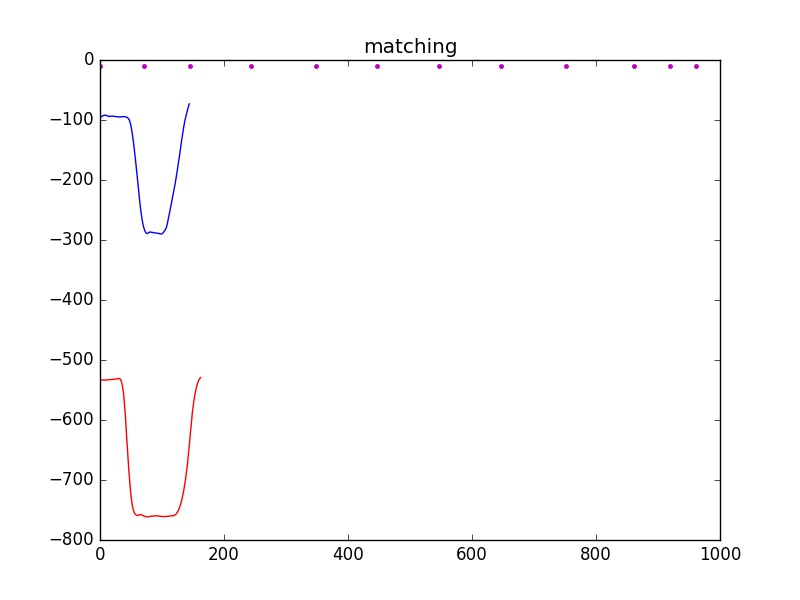
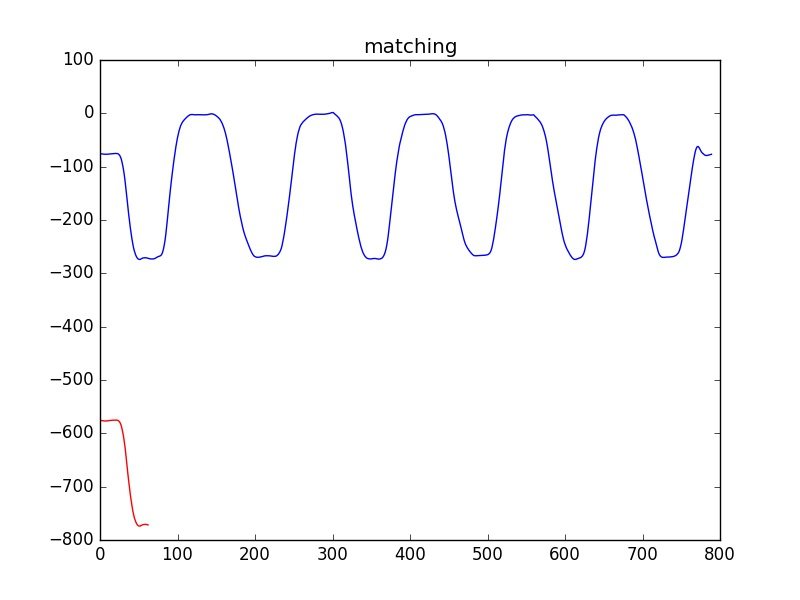
add

diff --git a/DTW/matchingseg.py b/DTW/matchingseg.py
@@ -17,23 +17,25 @@ src_path  = 'I:/AllData_0327/unified data array/Unified_MData/ex4/'
 #src_path  = 'D:/Project/K_project/data/unified data array/Unified_MData/'
 gt_src   = 'GT_V_data.h5'
 
-test_src = src_path + 'Andy_2016-12-15 04.15.27 PM_ex4_FPS30_motion_unified.pkl'
+test_src = src_path + 'Andy_2017-03-06 02.19.08 PM_ex4_FPS30_motion_unified.pkl'
 
-gt_data      = h5py.File('GT_V_data.h5','r')
-gt1          = gt_data['GT_1'][:]
-gt2          = gt_data['GT_2'][:]
-gt3          = gt_data['GT_3'][:]
-gt4          = gt_data['GT_4'][:]
+data       = h5py.File('GT_V_data.h5','r')
+gt_data    = {}
+gt_data[1] = data['GT_1'][:]
+gt_data[2] = data['GT_2'][:]
+gt_data[3] = data['GT_3'][:]
+gt_data[4] = data['GT_4'][:]
+
+
 
 test_data    = cPickle.load(file(test_src,'rb'))[12:,:].T
 
-# === initialization ===
+
 distlist            = []
 distplist           = []
 
 seglist             =[]
 gtseglist           =[]
-
 cnt         = 0
 dcnt        = 0      # decreasing cnt
 test_idx    = 0
@@ -43,31 +45,141 @@ deflag      = False  # decreasing flag
 err         = []
 dist_prev   = 0
 distp_prev  = 0 
+argmin      = []
 distp_cmp  = np.inf
 
+order = [1,3,4,3,4,3,4,3,4,2]
 
-
-
-    test_data_p1  = test_data[:,:] + np.atleast_2d((gt1[]-test_data[test_idx,:]))
+for gt_idx in order:
+    test_data_p  = test_data[:,:] + np.atleast_2d((gt_data[gt_idx][0,:]-test_data[test_idx,:]))
     
     distlist  = []
     distplist = []
 
 
+#    
+    dcnt        = 0 
+    deflag      = False
+    
+    for jidx,j in  enumerate(range(test_idx+1,test_data.shape[0])): 
+        dist  , path   = fastdtw(gt_data[gt_idx], test_data[test_idx:j,:]  , dist=euclidean)
+        dist_p, path_p = fastdtw(gt_data[gt_idx], test_data_p[test_idx:j,:], dist=euclidean)
 
 
+        print j
+        if jidx == 0:
+            testlist = test_data[j,:]
+        else:
+            testlist = np.vstack([testlist,test_data[j,:]])
+       
+        distlist.append(dist)
+        distplist.append(dist_p)
+        
+        if len(distlist)>1:
+            gdist  = np.gradient(distlist)
+            gdistp = np.gradient(distplist)
+        
+        if (j > test_idx+2) & (not deflag):
+            print distlist[-1]-distlist[-2]
+            if (distlist[-1]-distlist[-2]) <= 0:
+                dcnt +=1
+                if dcnt == 1:
+                    dpfirst = dist_p
+            else:
+                dcnt = 0
+                
+#            print ('dcnt')
+#            print dcnt
+            
+            if dcnt == 10:
+#                print ('dpfirst - dist_p')
+#                print dpfirst - dist_p
+                if (dpfirst - dist_p)>2000:
+                    print('deflag on')
+                    deflag = True
+                else:
+                    dcnt = 1       
+        
+        if deflag : 
+            if chk_flag:  # in check global min status
+                cnt +=1
+                err.append(np.abs(dist_p-dist)/dist) 
+                
+                if dist_p < distp_cmp : # find another small value
+                    cnt = 0
+                    err = []
+                    distp_cmp = dist_p
+                    idx_cmp   = j
+                    print(' ==== reset ====')
+                    
+                elif cnt == 20:
+                    Err_mean = np.mean(err)
+#                    pdb.set_trace()
+                    print('err mean')
+                    print(Err_mean)
+#                    if Err_mean <3:
+                    chk_flag = False
+
+                    tgrad = 0
+
+                    for ii in range(testlist.shape[1]):
+                        tgrad += np.gradient(gf(testlist[:,ii],3))**2
+                        
+                    tgrad = tgrad**0.5
 
 
+#                    pdb.set_trace()
+                    endidx = np.argmin(tgrad[idx_cmp-test_idx-10:idx_cmp-test_idx+10])+(idx_cmp-10) 
+                    # (idx_cmp-10)  = (idx_cmp-test_idx-10)+ test_idx
+                    
 
+                    seglist.append([test_idx,endidx])
+#                    gtseglist.append([idx[gt_idx],idx[gt_idx+1]])
+                    argmin.append(np.argmin(distplist)+test_idx)                        
+                    test_idx = endidx+1
+                    cnt      = 0
+                    break
+                        
+#                    else:
+#                        print('Ooops!!')
+#                        pdb.set_trace()
+#                    
+            else:  
+                print dist_p-distp_prev
+                
+#                if (((dist_p-distp_prev)>2) &  ((distp_prev-distp_prev2)<0)):  # turning point
+                if (dist_p-distp_prev)>0:
+#                if (gdistp[-2]<0)&(gdistp[-1]>0):
+                    print (' ==============  large ====================')
+#                    pdb.set_trace()
+                    distp_cmp = distp_prev
+                    idx_cmp   = j
+                    chk_flag = True
+                    err      = []
+                    
 
+        dist_prev   = dist
+        distp_prev  = dist_p 
+        
+        print ('===========\n')
+     
+#    pdb.set_trace()    
+    if cnt > 0:
+       seglist.append([test_idx,idx_cmp]) 
+       argmin.append(np.argmin(distplist)+test_idx)
+#       gtseglist.append([idx[gt_idx],idx[gt_idx+1]]) 
+       endidx =  idx_cmp
+    elif idx_cmp == (test_data.shape[0]-1):
+        seglist.append([test_idx,idx_cmp]) 
+        argmin.append(np.argmin(distplist)+test_idx) 
+#        gtseglist.append([idx[gt_idx],idx[gt_idx+1]])
+        endidx =  idx_cmp
+        
+        
+    fig = plt.figure(1)
+    plt.plot(test_data[:endidx,6]-500,color = 'red')
+    plt.plot(test_data[:,6],color = 'blue')
+    plt.title('matching')
 
-
-
-
-
-
-
-
-
-
-
+    fig.savefig(str(len(seglist)).zfill(2)+'.jpg')
+    plt.close(fig)

diff --git a/DTW/matchingwgrad.py b/DTW/matchingwgrad.py
@@ -18,7 +18,7 @@ gt_src    = 'Andy_2016-12-15 04.15.27 PM_ex4_FPS30_motion_unified.pkl'
 plotJidx  = 3 
 gt_data   = cPickle.load(file(gt_src,'rb'))[12:,:].T
 
-gt_data      = np.hstack([  gt_data[:,3:9],  gt_data[:,12:18]])
+#gt_data      = np.hstack([  gt_data[:,3:9],  gt_data[:,12:18]])
 
 
 # === initialization ===
@@ -53,14 +53,14 @@ idx  = np.append([0],minm)
 
 src_path  = 'I:/AllData_0327/unified data array/Unified_MData/ex4/'
 
-dst_path  = 'C:/Users/Dawnknight/Documents/GitHub/K_project/DTW/figure/0829/4 joints/'
+dst_path  = 'C:/Users/Dawnknight/Documents/GitHub/K_project/DTW/figure/0905/7 joints/'
 
 
 
-for infile in glob.glob(os.path.join(src_path,'*.pkl'))[60:]:
+for infile in glob.glob(os.path.join(src_path,'*.pkl')):
     print infile
     test_data    = cPickle.load(file(infile,'rb'))[12:,:].T
-    test_data    = np.hstack([test_data[:,3:9],test_data[:,12:18]])
+#    test_data    = np.hstack([test_data[:,3:9],test_data[:,12:18]])
     foldername   = infile.split('\\')[-1].split('_ex4')[0][:-3]
     
     
@@ -107,7 +107,7 @@ for infile in glob.glob(os.path.join(src_path,'*.pkl'))[60:]:
             
             
             if (j > test_idx+2) & (not deflag):
-                if (distlist[-1]-distlist[-2]) <= 0:
+                if (distplist[-1]-distplist[-2]) <= 0:
                     dcnt +=1
                     if dcnt == 1:
                         dpfirst = dist_p
